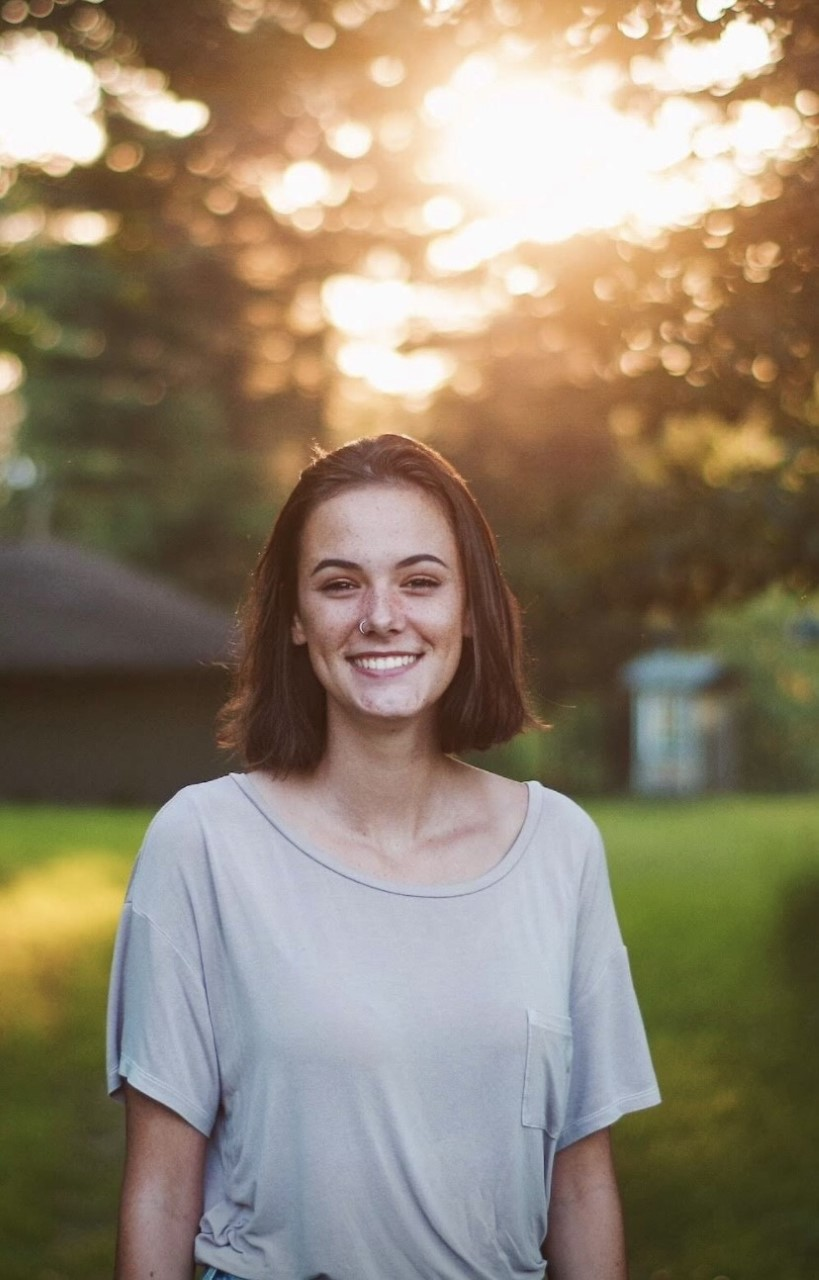
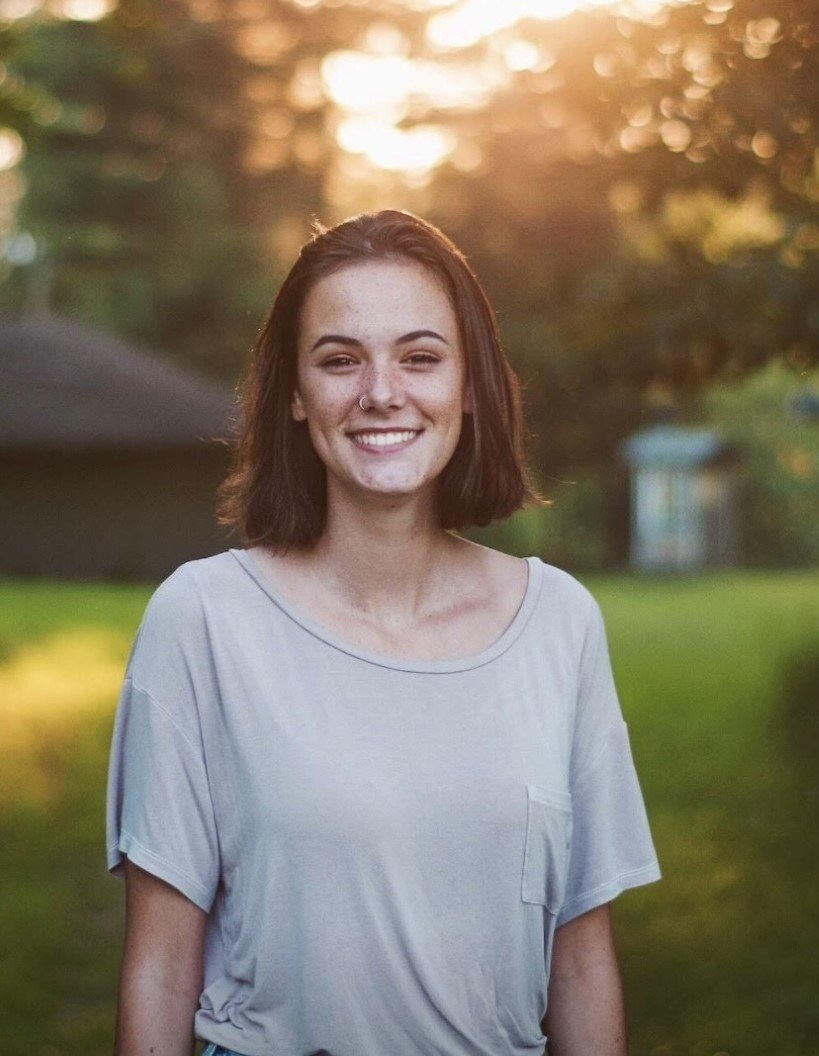
Nimue' fixed

diff --git a/people.html b/people.html
@@ -341,9 +341,9 @@ h1 {
 <h4>Ashley Hamilton</h4>
 <p>Ashley is a lab technician who graduated with a BS in Biology from Texas A&amp;M University- Corpus Christi in Fall 2019. She was originally planning on pursuing marine biology but fell in love with plants and plant evolution during a class on research methodology in the rainforests of Costa Rica. Since then, she has pursued these avenues of research passionately, conducting research on seagrass genetic diversity under Dr. Patrick Larkin and limpet biogeography under Dr. Chris Bird as well as participating in an REU looking at landscape genetics of prairie plants under Dr. Mitch Cruzan at Portland State University and another REU under Dr. Stacey Smith at the University of Colorado at Boulder investigating potential carotenoid genes associated with flower color variation in Petunieae. Currently, she working on two projects in the Wessinger Lab: 1) understanding the effect of variable herkogamy on outcrossing rates within a population of <em>Penstemon cobaea</em> and 2) analyzing range size and niche breadth differences in <em>Penstemon</em> species with different pollination syndromes. She enjoys spending her spare time rock climbing, reading, wildflower hunting, and hiking.</p>
 <p><br><br></p>
+<p><br></p>
 <hr />
-<p><img src="images/Nimue'.jpg" width="35%" style="float:right; padding:10px" /></p>
-<p><br><br><br></p>
+<p><img src="images/Nimue'.jpg" width="35%" style="float:left; padding:10px" /></p>
 <p><br></p>
 </div>
 <div id="nimue-shive" class="section level4">
